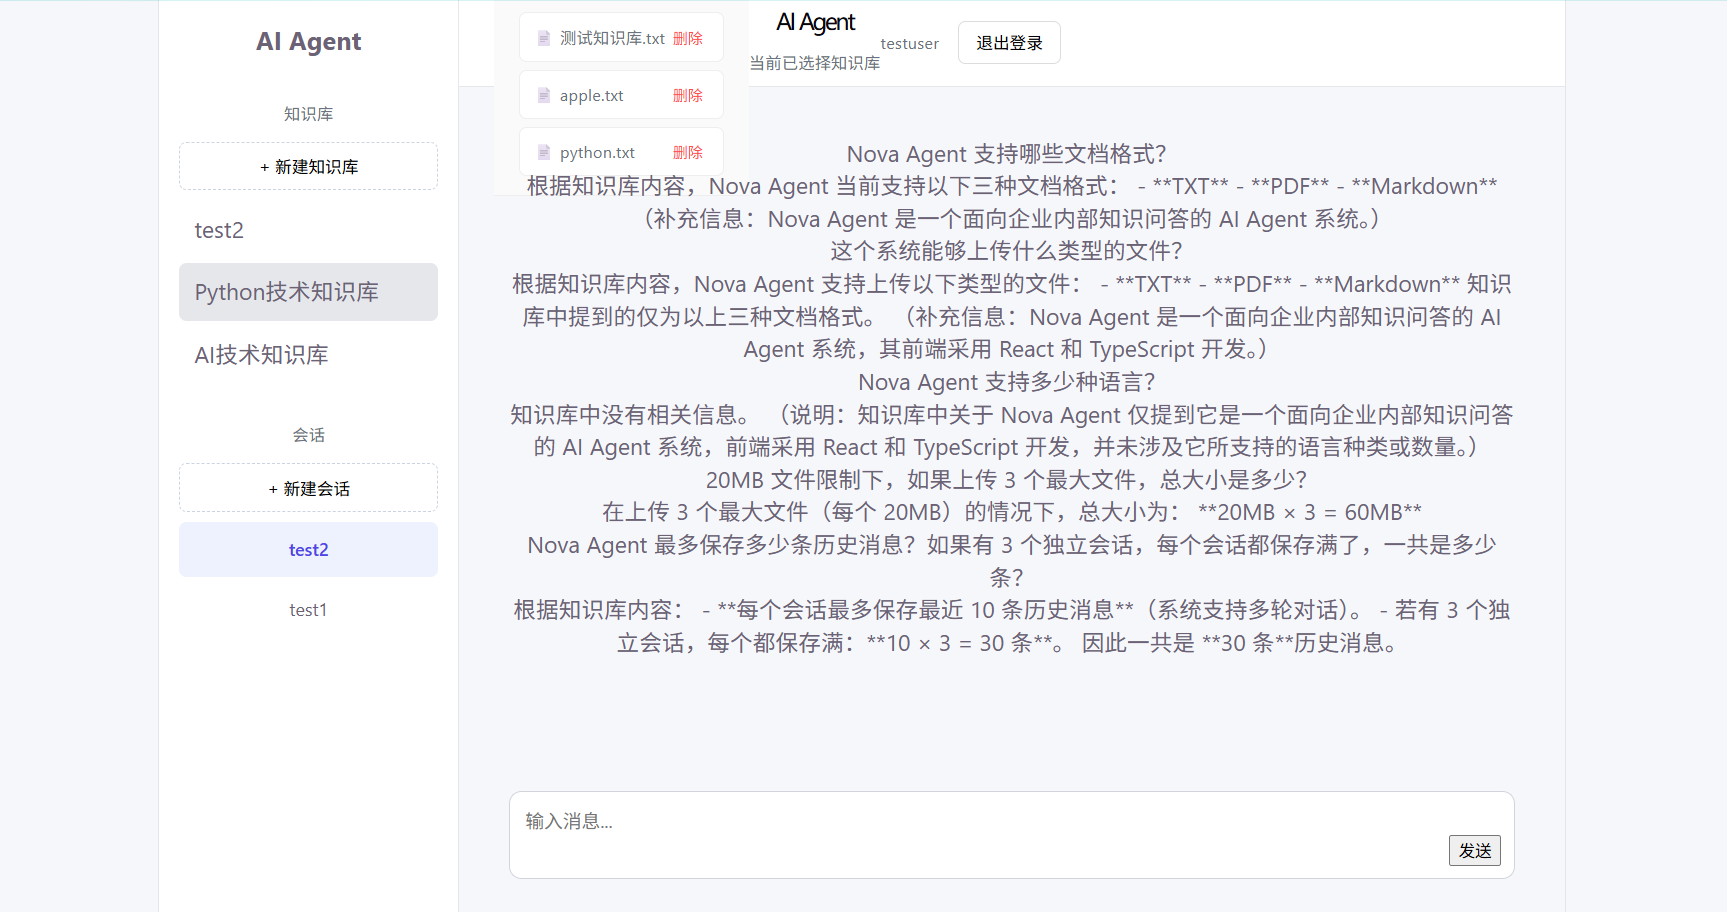
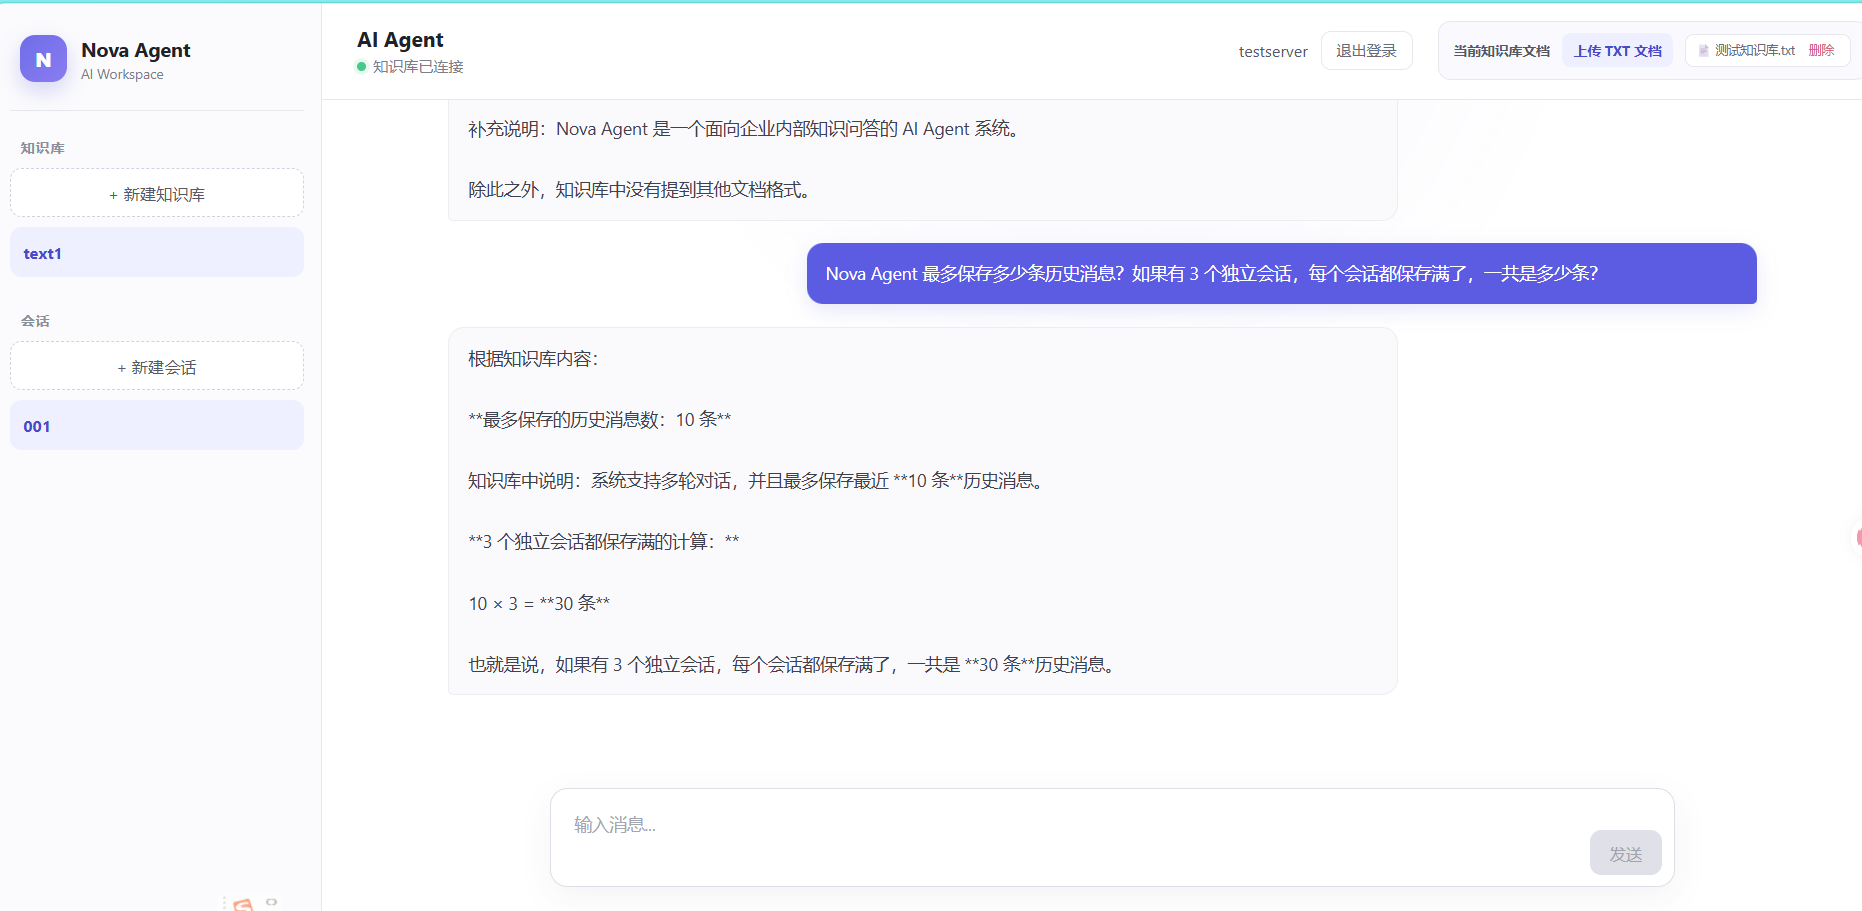
latest version

diff --git a/README.md b/README.md
@@ -1,13 +1,15 @@
 # Simple RAG Agent
 ## 项目演示
 
+### 登录界面
+
+![登录界面](docs/login.png)
+
 ### AI 对话
 
 ![AI 对话界面](docs/chat.png)
 
-### 知识库管理
 
-![知识库管理](docs/knowledge-base.png)
 > 基于 FastAPI + React + FAISS + DeepSeek 实现的轻量级 RAG Agent 智能问答系统
 
 ## 项目简介
